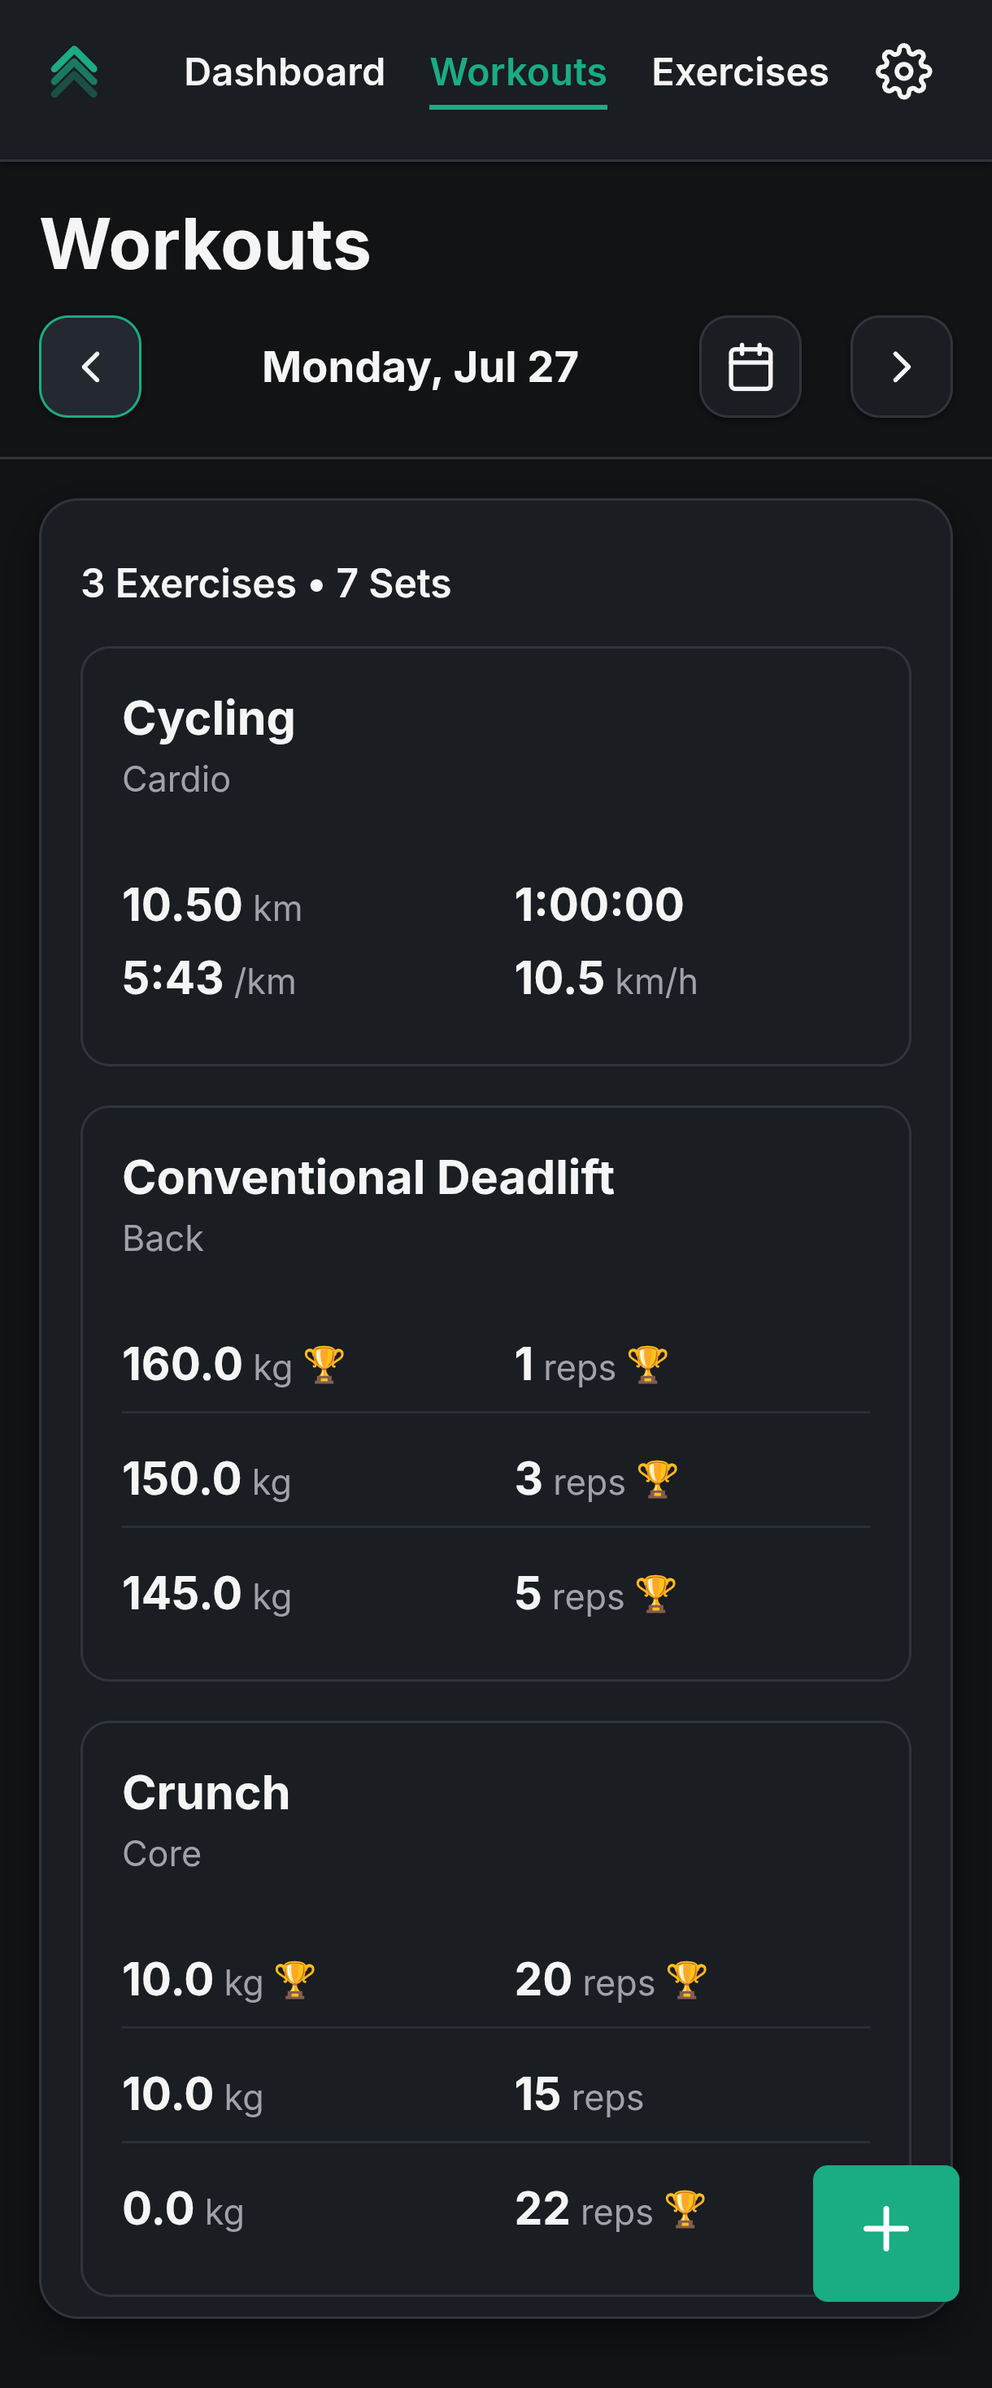
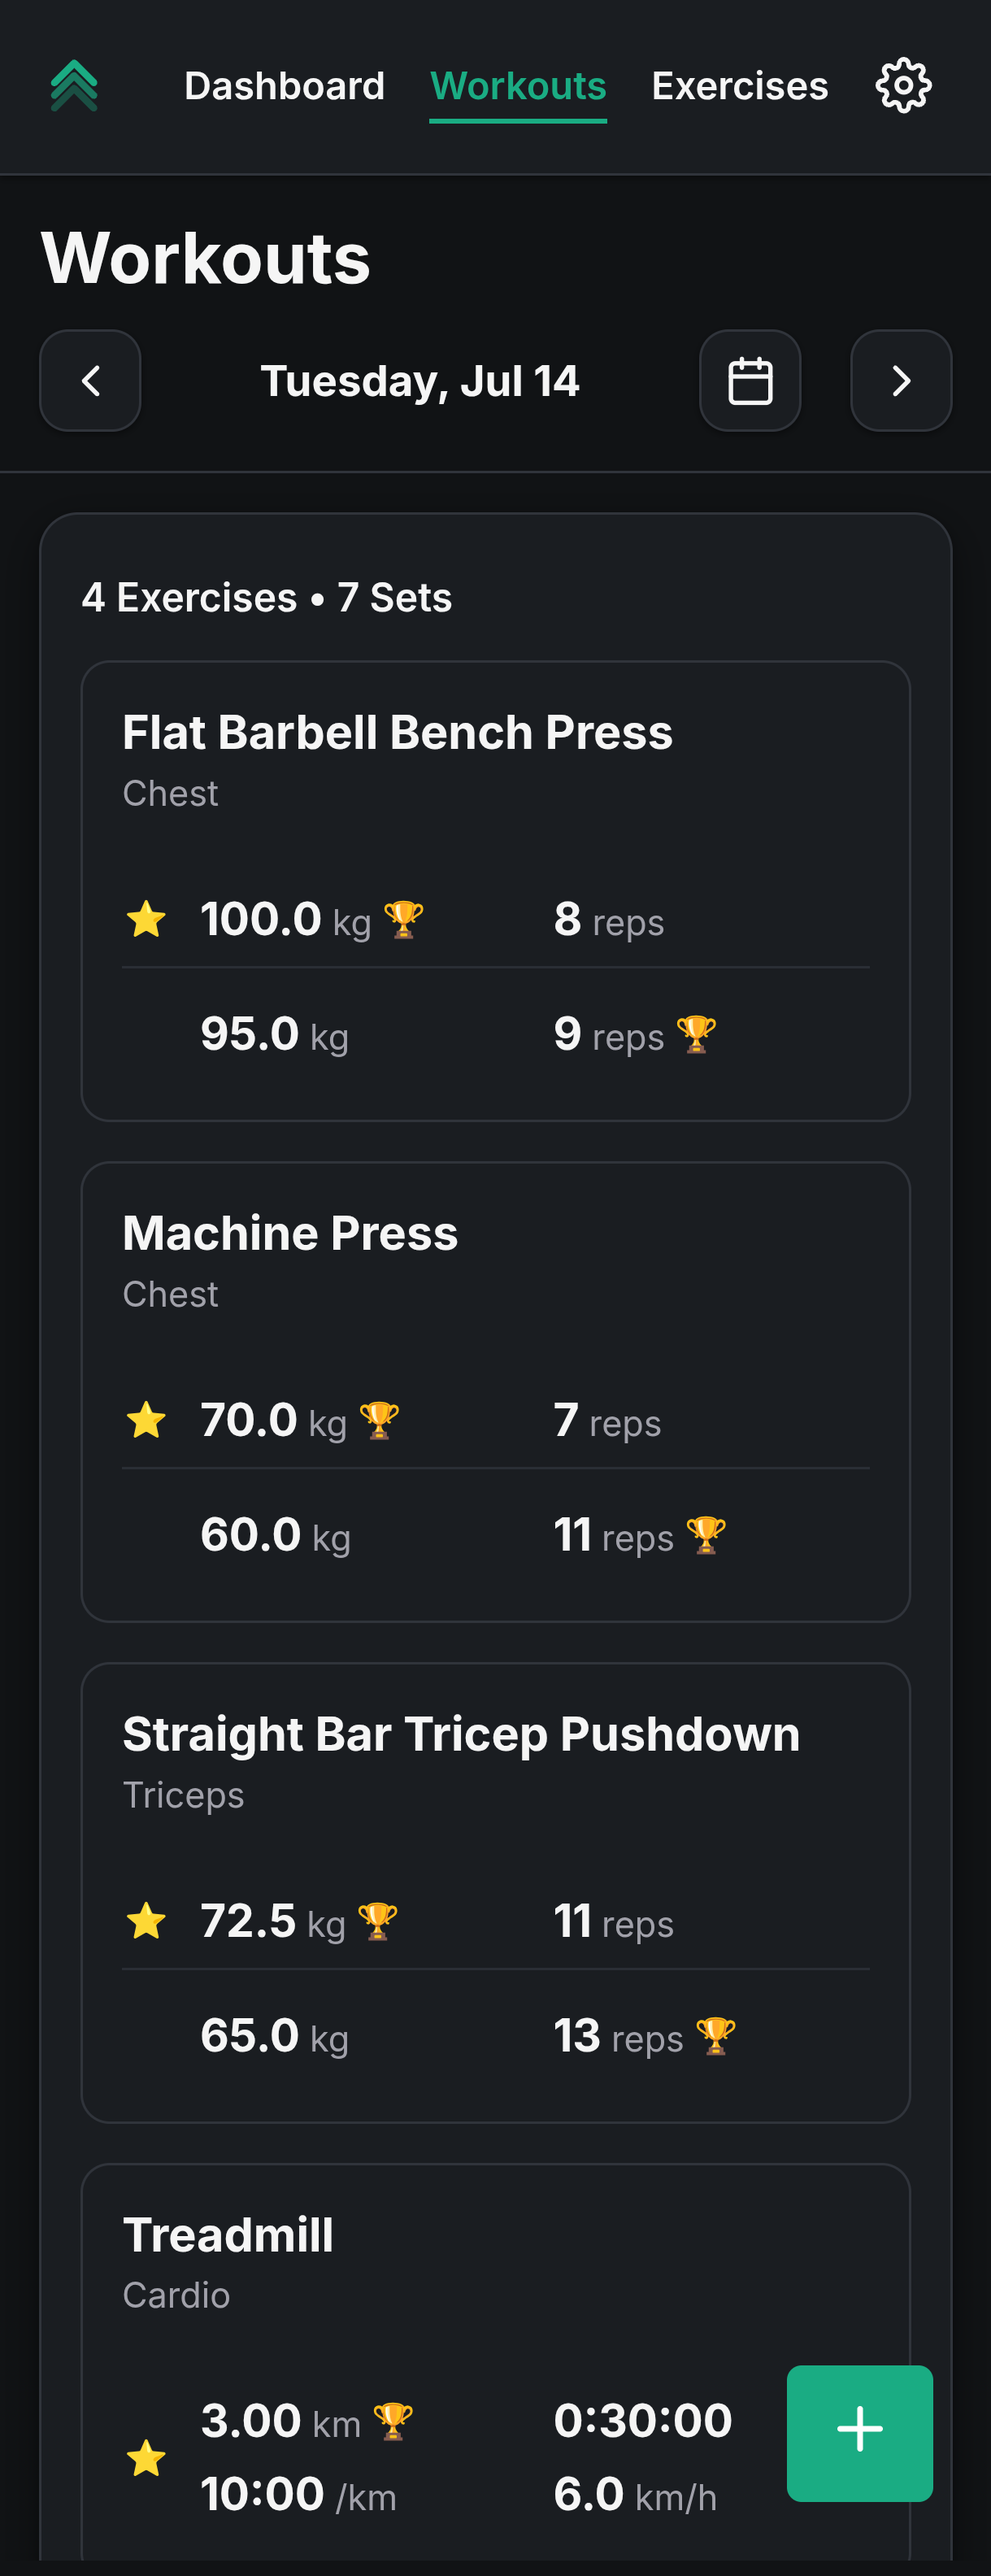
fix: update description and images  for landing page

diff --git a/client/src/pages/LandingPage.jsx b/client/src/pages/LandingPage.jsx
@@ -20,7 +20,7 @@ const FEATURES = [
   {
     title: "PRs that track themselves",
     description:
-      "Every heaviest lift and highest rep set gets flagged the moment you log it. No manual math, no forgetting your own numbers.",
+      "Every heaviest lift, best rep set, and quiet strength gain in between gets flagged the moment you log it. No manual math, no forgetting your own numbers.",
     icon: (
       <svg width="22" height="22" viewBox="0 0 24 24" fill="none" stroke="currentColor" strokeWidth="2" strokeLinecap="round" strokeLinejoin="round">
         <path d="M8 21h8M12 17v4M7 4h10v5a5 5 0 0 1-10 0V4z" />
